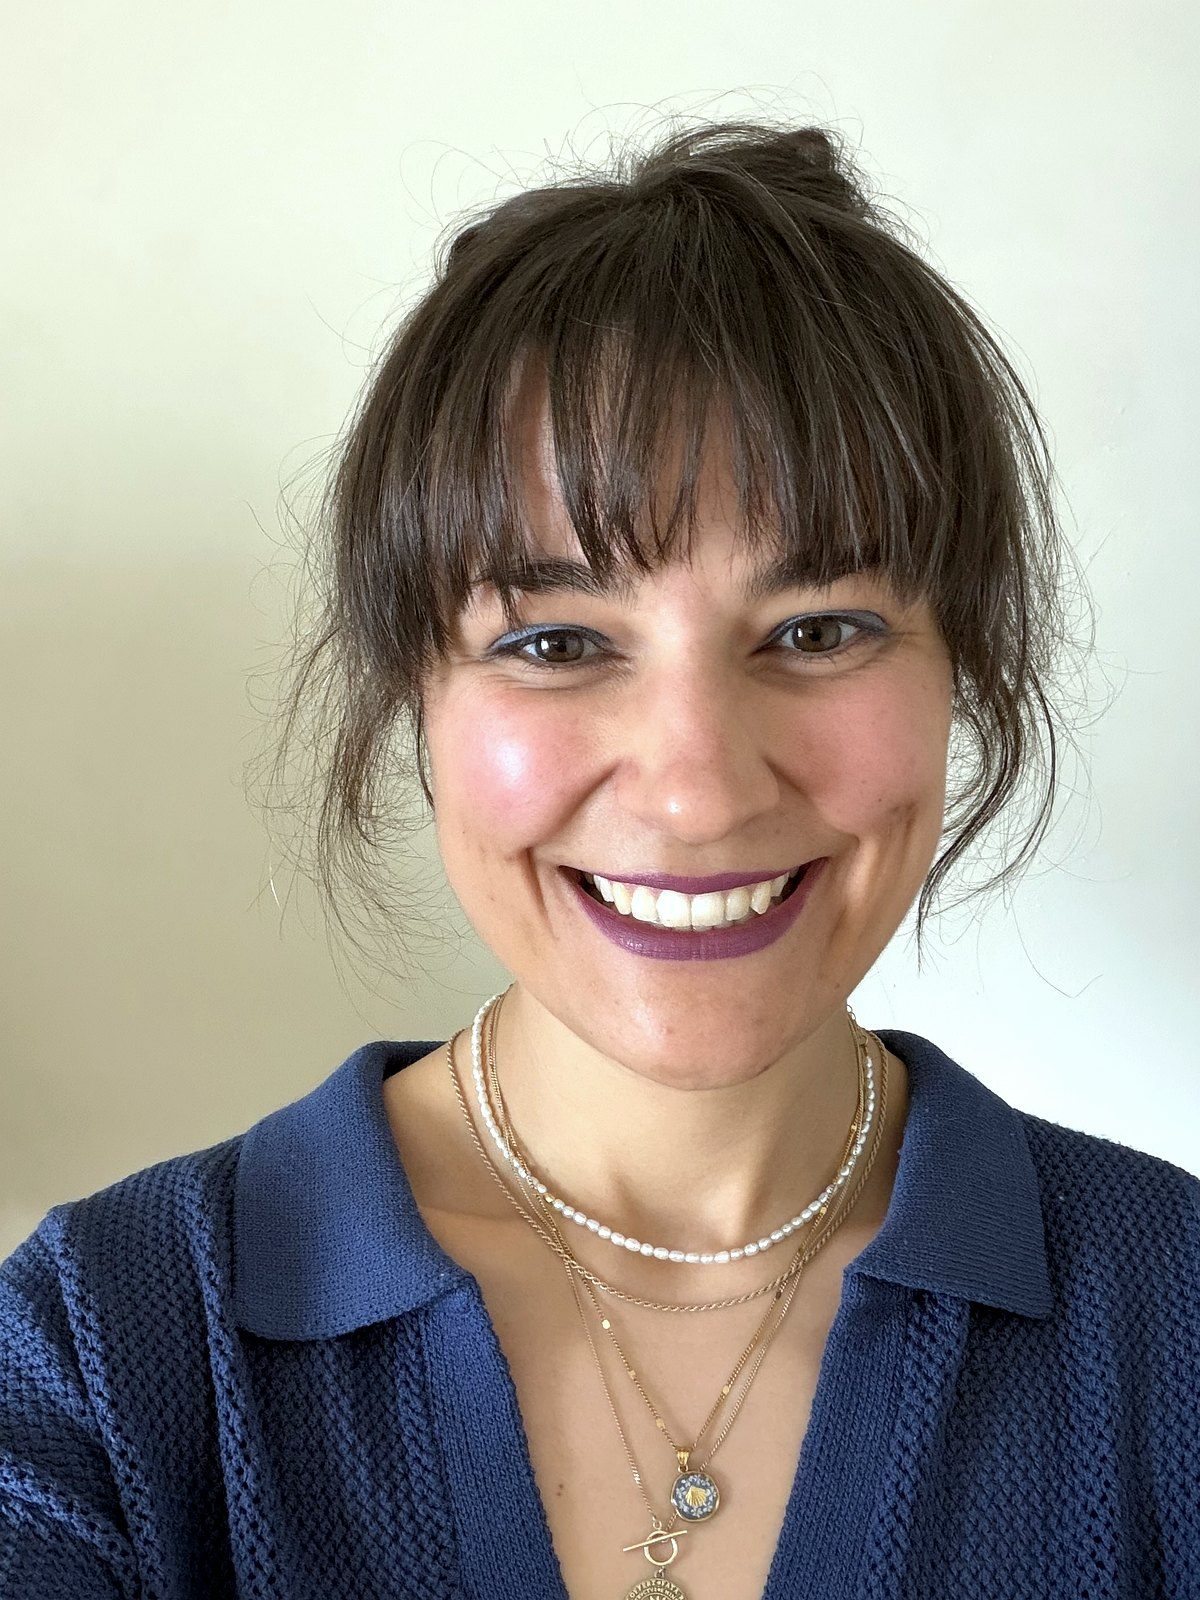
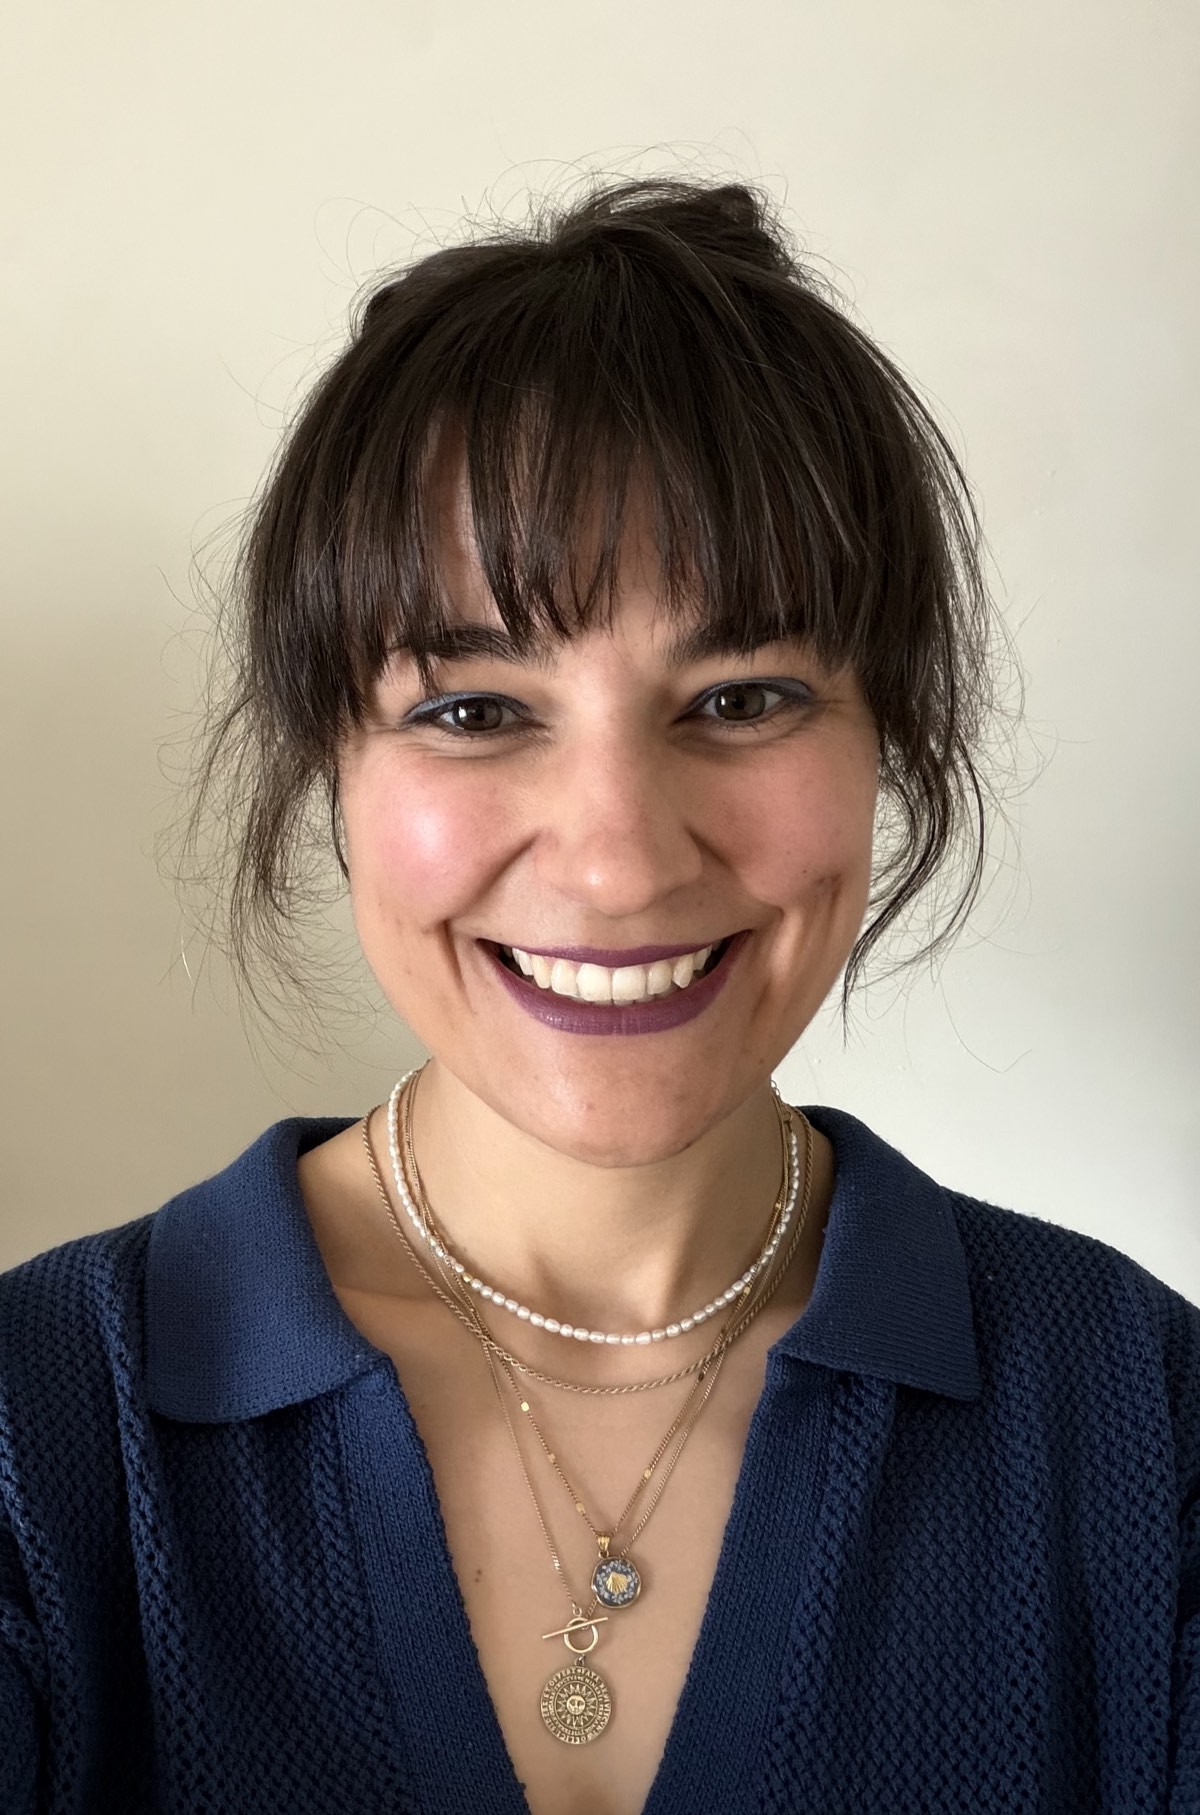
Neues Profilfoto web-optimiert (WebP + JPEG-Fallback)
profile.jpg auf 1200px/q65 (356KB), neues profile.webp (175KB).
Beide Header (DE+EN) auf <picture> mit WebP-Source umgestellt.

diff --git a/index.html b/index.html
@@ -86,9 +86,12 @@
 
         <header class="pt-24 sm:pt-36 pb-8">
             <div class="flex flex-col sm:flex-row items-stretch gap-10">
-                <img src="profile.jpg" alt="Linja Scharffetter"
-                    class="w-full sm:w-56 h-96 sm:h-auto rounded-lg object-cover object-[center_30%] sm:object-[center_15%] flex-shrink-0"
-                    style="border: 2px solid #e5e2db;">
+                <picture style="display:contents">
+                    <source srcset="profile.webp" type="image/webp">
+                    <img src="profile.jpg" alt="Linja Scharffetter"
+                        class="w-full sm:w-56 h-96 sm:h-auto rounded-lg object-cover object-[center_30%] sm:object-[center_15%] flex-shrink-0"
+                        style="border: 2px solid #e5e2db;">
+                </picture>
                 <div class="flex-1 flex flex-col justify-between gap-4">
                     <h1 class="source-serif text-[1.6rem] sm:text-[2.4rem] text-stone-900 leading-[1.15]">
                         Ich übersetze Strategie in Ergebnisse, die jedes Team versteht.
@@ -241,9 +244,12 @@
 
         <header class="pt-24 sm:pt-36 pb-8">
             <div class="flex flex-col sm:flex-row items-stretch gap-10">
-                <img src="profile.jpg" alt="Linja Scharffetter"
-                    class="w-full sm:w-56 h-96 sm:h-auto rounded-lg object-cover object-[center_30%] sm:object-[center_15%] flex-shrink-0"
-                    style="border: 2px solid #e5e2db;">
+                <picture style="display:contents">
+                    <source srcset="profile.webp" type="image/webp">
+                    <img src="profile.jpg" alt="Linja Scharffetter"
+                        class="w-full sm:w-56 h-96 sm:h-auto rounded-lg object-cover object-[center_30%] sm:object-[center_15%] flex-shrink-0"
+                        style="border: 2px solid #e5e2db;">
+                </picture>
                 <div class="flex-1 flex flex-col justify-between gap-4">
                     <h1 class="source-serif text-[1.6rem] sm:text-[2.4rem] text-stone-900 leading-[1.15]">
                         I translate strategy into results every team can act on.